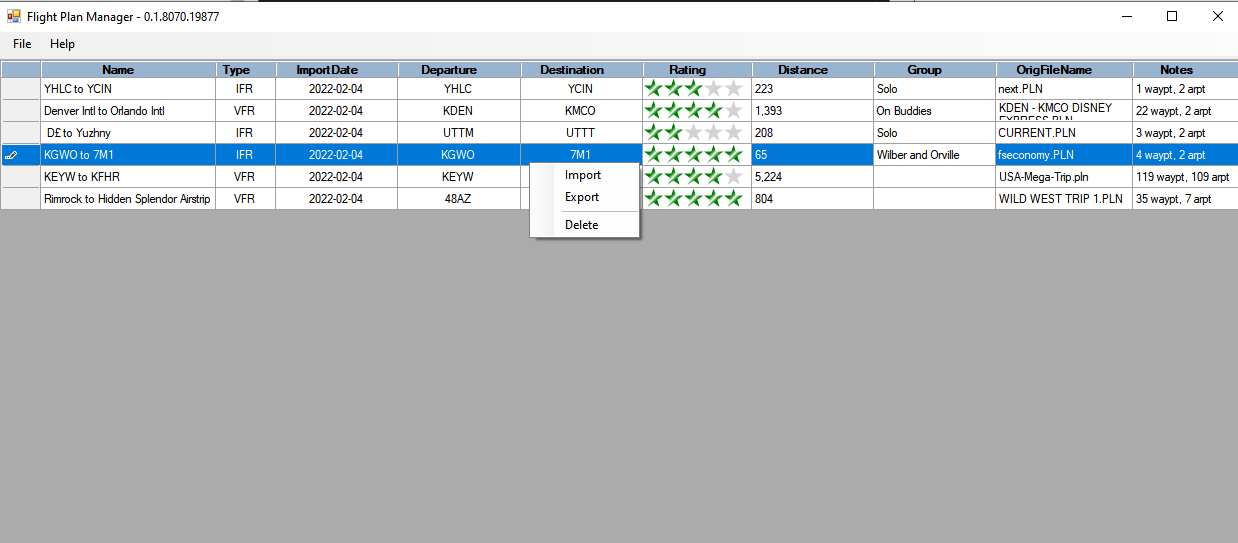
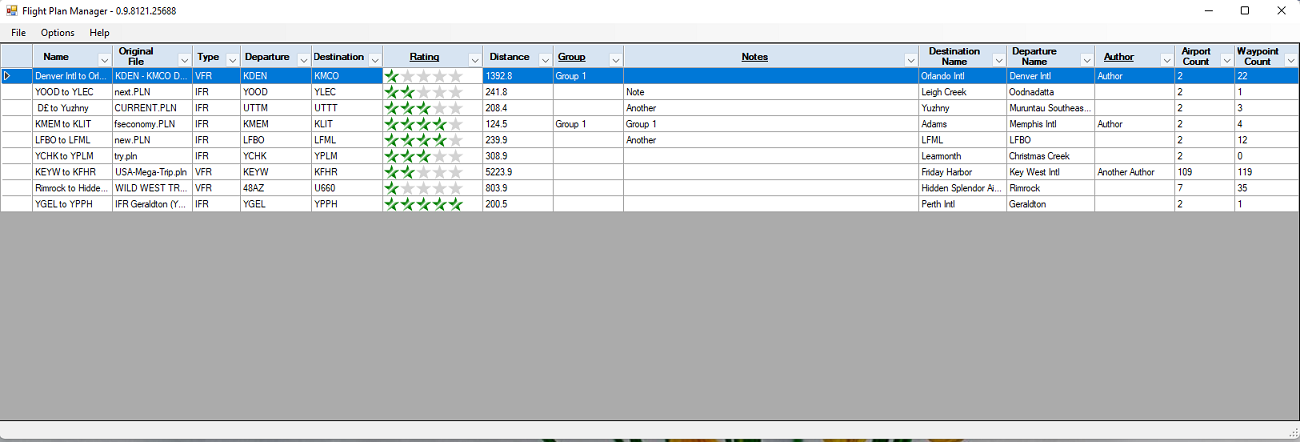
Code Cleanup, update version and screen shot

diff --git a/Controls/Filter/DataGridViewAutoFilterColumnHeaderCell.cs b/Controls/Filter/DataGridViewAutoFilterColumnHeaderCell.cs
@@ -20,8 +20,8 @@ namespace DataGridViewAutoFilter
     /// </summary>
     public class DataGridViewAutoFilterColumnHeaderCell : DataGridViewColumnHeaderCell
     {
-        private static FilterListBox dropDownListBox = new FilterListBox();         // The ListBox used for all drop-down lists.
-        private OrderedDictionary filters = new OrderedDictionary();                // A list of filters available for the owning column stored as
+        private static readonly FilterListBox dropDownListBox = new FilterListBox();         // The ListBox used for all drop-down lists.
+        private readonly OrderedDictionary filters = new OrderedDictionary();                // A list of filters available for the owning column stored as
         private string selectedFilterValue = string.Empty;                          // The drop-down list filter value currently in effect for the owning column.
         private string currentColumnFilter = string.Empty;                          // The complete filter string currently in effect for the owning column.
         private bool filtered;                                                      // Indicates whether the DataGridView is currently filtered by the owning column.
@@ -133,7 +133,7 @@ namespace DataGridViewAutoFilter
             }
 
             // Throw an exception if the data source is not a BindingSource.
-            if (!(DataGridView.DataSource is BindingSource data))
+            if (!(DataGridView.DataSource is BindingSource))
             {
                 throw new NotSupportedException(
                     "The DataSource property of the containing DataGridView control " +
@@ -503,8 +503,7 @@ namespace DataGridViewAutoFilter
             Debug.Assert(DataGridView != null && OwningColumn != null, "DataGridView or OwningColumn is null");
 
             // Continue only if the data source supports sorting.
-            IBindingList sortList = DataGridView.DataSource as IBindingList;
-            if (sortList == null ||
+            if (!(DataGridView.DataSource is IBindingList sortList) ||
                 !sortList.SupportsSorting ||
                 !AutomaticSortingEnabled)
             {
@@ -610,9 +609,7 @@ namespace DataGridViewAutoFilter
             // initializing dropDownListBoxHeight to account for the
             // ListBox borders.
             int dropDownListBoxHeight = 2;
-            int currentWidth = 0;
             int dropDownListBoxWidth = 0;
-            int dropDownListBoxLeft = 0;
 
             // For each formatted value in the filters dictionary Keys collection,
             // add its height to dropDownListBoxHeight and, if it is wider than
@@ -624,7 +621,7 @@ namespace DataGridViewAutoFilter
                     SizeF stringSizeF = graphics.MeasureString(
                         filter, dropDownListBox.Font);
                     dropDownListBoxHeight += (int)stringSizeF.Height;
-                    currentWidth = (int)stringSizeF.Width;
+                    int currentWidth = (int)stringSizeF.Width;
                     if (dropDownListBoxWidth < currentWidth)
                     {
                         dropDownListBoxWidth = currentWidth;
@@ -648,6 +645,7 @@ namespace DataGridViewAutoFilter
                 dropDownListBoxWidth += SystemInformation.VerticalScrollBarWidth;
             }
 
+            int dropDownListBoxLeft;
             // Calculate the ideal location of the left edge of dropDownListBox
             // based on the location of the drop-down button and taking the
             // RightToLeft property value into consideration.
@@ -1079,8 +1077,6 @@ namespace DataGridViewAutoFilter
                 return;
             }
 
-            // Declare a variable to store the filter string for this column.
-            string newColumnFilter = null;
 
             // Store the column name in a form acceptable to the Filter property,
             // using a backslash to escape any closing square brackets.
@@ -1104,6 +1100,9 @@ namespace DataGridViewAutoFilter
                 }
             }
 
+
+            // Declare a variable to store the filter string for this column.
+            string newColumnFilter;
             // Determine the column filter string based on the user selection.
             // For (Blanks) and (NonBlanks), the filter string determines whether
             // the column value is null or an empty string. Otherwise, the filter
@@ -1144,7 +1143,7 @@ namespace DataGridViewAutoFilter
             {
                 data.Filter = newFilter;
             }
-            catch (InvalidExpressionException ex)
+            catch
             {
                 //throw new NotSupportedException("Invalid expression: " + newFilter, ex);
                 MessageBox.Show("Invalid expression: " + newFilter);
@@ -1348,7 +1347,7 @@ namespace DataGridViewAutoFilter
             int topOffset = visualStylesEnabled ? 4 : 1;
             int top = cellBounds.Bottom - buttonEdgeLength - topOffset;
             int leftOffset = visualStylesEnabled ? 3 : 1;
-            int left = 0;
+            int left;
             if (DataGridView.RightToLeft == RightToLeft.No)
             {
                 left = cellBounds.Right - buttonEdgeLength - leftOffset;

diff --git a/Forms/MainForm.cs b/Forms/MainForm.cs
@@ -38,8 +38,10 @@ namespace FlightPlanManager.Forms
 
             sortableData = DbData.GetData();
 
-            var bs = new BindingSource();
-            bs.DataSource = sortableData.ToDataTable();
+            var bs = new BindingSource
+            {
+                DataSource = sortableData.ToDataTable()
+            };
             dataGridView1.DataSource = bs;
 
             dataGridView1.Columns["id"].Visible = false;
@@ -92,26 +94,26 @@ namespace FlightPlanManager.Forms
 
         private void EnableGridFilter(bool value)
         {
-            nameDataGridViewTextBoxColumn.FilteringEnabled = true;
-            typeDataGridViewTextBoxColumn.FilteringEnabled = true;
-            importDateDataGridViewTextBoxColumn.FilteringEnabled = true;
-            departureDataGridViewTextBoxColumn.FilteringEnabled = true;
-            destinationDataGridViewTextBoxColumn.FilteringEnabled = true;
+            nameDataGridViewTextBoxColumn.FilteringEnabled = value;
+            typeDataGridViewTextBoxColumn.FilteringEnabled = value;
+            importDateDataGridViewTextBoxColumn.FilteringEnabled = value;
+            departureDataGridViewTextBoxColumn.FilteringEnabled = value;
+            destinationDataGridViewTextBoxColumn.FilteringEnabled = value;
             ratingDataGridViewTextBoxColumn = new FlightPlanManager.Controls.DataGridViewRatingColumn();
-            distanceDataGridViewTextBoxColumn.FilteringEnabled = true;
-            groupDataGridViewTextBoxColumn.FilteringEnabled = true;
-            origFileNameDataGridViewTextBoxColumn.FilteringEnabled = true;
-            notesDataGridViewTextBoxColumn.FilteringEnabled = true;
+            distanceDataGridViewTextBoxColumn.FilteringEnabled = value;
+            groupDataGridViewTextBoxColumn.FilteringEnabled = value;
+            origFileNameDataGridViewTextBoxColumn.FilteringEnabled = value;
+            notesDataGridViewTextBoxColumn.FilteringEnabled = value;
             //planDataGridViewTextBoxColumn = new System.Windows.Forms.DataGridViewTextBoxColumn();
             //origFullFileNameDataGridViewTextBoxColumn = new System.Windows.Forms.DataGridViewTextBoxColumn();
-            fileCreateDateDataTextBoxColumn.FilteringEnabled = true;
-            DepartureNameTextBoxColumn.FilteringEnabled = true;
-            DestinationNameTextBoxColumn.FilteringEnabled = true;
-            AuthorDataGridViewTextBoxColumn.FilteringEnabled = true;
-            AirportCountDataGridViewTextBoxColumn.FilteringEnabled = true;
-            WaypointCountDataGridViewTextBoxColumn.FilteringEnabled = true;
+            fileCreateDateDataTextBoxColumn.FilteringEnabled = value;
+            DepartureNameTextBoxColumn.FilteringEnabled = value;
+            DestinationNameTextBoxColumn.FilteringEnabled = value;
+            AuthorDataGridViewTextBoxColumn.FilteringEnabled = value;
+            AirportCountDataGridViewTextBoxColumn.FilteringEnabled = value;
+            WaypointCountDataGridViewTextBoxColumn.FilteringEnabled = value;
 
-            WaypointCountDataGridViewTextBoxColumn.FilteringEnabled = true;
+            WaypointCountDataGridViewTextBoxColumn.FilteringEnabled = value;
         }
 
         private void RestoreWindowPosition()
@@ -328,8 +330,10 @@ namespace FlightPlanManager.Forms
         private void UpdateGrid()
         {
             sortableData = DbData.GetData();
-            var bs = new BindingSource();
-            bs.DataSource = sortableData.ToDataTable();
+            var bs = new BindingSource
+            {
+                DataSource = sortableData.ToDataTable()
+            };
             dataGridView1.DataSource = bs;
 
             dataGridView1.Refresh();

diff --git a/Forms/MainForm.Designer.cs b/Forms/MainForm.Designer.cs
@@ -548,7 +548,7 @@
             this.WaypointCountDataGridViewTextBoxColumn.HeaderText = "Waypoint Count";
             this.WaypointCountDataGridViewTextBoxColumn.Name = "WaypointCountDataGridViewTextBoxColumn";
             this.WaypointCountDataGridViewTextBoxColumn.ReadOnly = true;
-            this.WaypointCountDataGridViewTextBoxColumn.Width = 75;
+            this.WaypointCountDataGridViewTextBoxColumn.Width = 80;
             // 
             // MainForm
             // 

diff --git a/Properties/AssemblyInfo.cs b/Properties/AssemblyInfo.cs
@@ -32,4 +32,4 @@ using System.Runtime.InteropServices;
 // by using the '*' as shown below:
 //[assembly: AssemblyVersion("1.0.0.0")]
 //[assembly: AssemblyFileVersion("1.0.0.0")]
-[assembly: AssemblyVersion("0.9.*")]
+[assembly: AssemblyVersion("1.0.*")]

diff --git a/README.md b/README.md
@@ -7,6 +7,7 @@ Flight Plan Manager
 ## Features
 
 - Import and save flight plans
+- Filter flight plans
 - View map of plan
 - Rate flight plans
 - Get type of flight plan (VFR/IFR)
